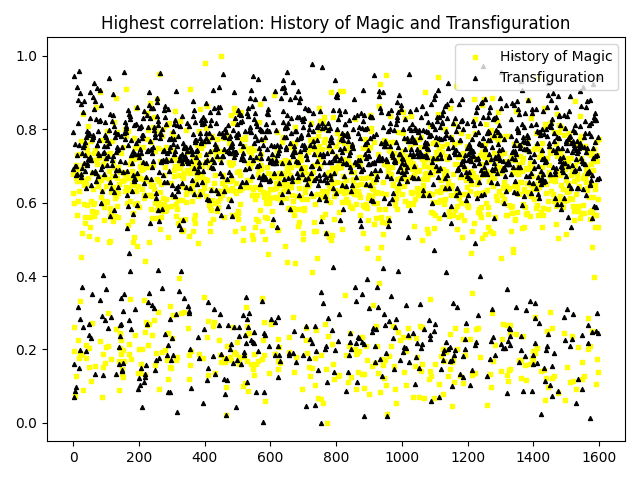
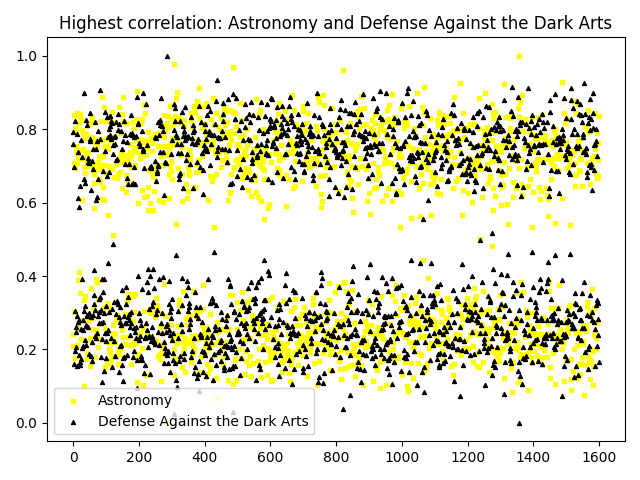
add negative correlation for scatter_plot

diff --git a/scatter_plot.py b/scatter_plot.py
@@ -65,18 +65,31 @@ def main():
 	# show scatter plot with the highest correlation
 	fig_cor, ax_cor = plt.subplots()
 	# someVariable = df["Arithmancy"].corrwith(df["Flying"])
-	max_corr = 0
+	max_pos_corr = 0
+	max_neg_corr = 1
 	for column in df:
 		someVariable = df.corrwith(df[column], axis=0)
 		for (index, value) in enumerate(someVariable):
-			if value > max_corr and column != someVariable.index[index]:
-				max_corr = value
-				max_corr_col_1 = column
-				max_corr_col_2 = someVariable.index[index]
-				print(f"Current max_corr of {max_corr} in column {column} comparing to {someVariable.index[index]}")
-	ax_cor.set_title(f"Highest correlation: {max_corr_col_1} and {max_corr_col_2}")
-	ax_cor.scatter(df.index, df[max_corr_col_1], s=8, color="yellow", marker="s", label=max_corr_col_1)
-	ax_cor.scatter(df.index, df[max_corr_col_2], s=8, color="black", marker="^", label=max_corr_col_2)
+			if value > max_pos_corr and column != someVariable.index[index]:
+				max_pos_corr = value
+				max_pos_corr_col_1 = column
+				max_pos_corr_col_2 = someVariable.index[index]
+				print(f"Current max_pos_corr of {max_pos_corr} in column {column} comparing to {someVariable.index[index]}")
+			if value < max_neg_corr and column != someVariable.index[index]:
+				max_neg_corr = value
+				max_neg_corr_col_1 = column
+				max_neg_corr_col_2 = someVariable.index[index]
+				print(f"Current max_neg_corr of {max_neg_corr} in column {column} comparing to {someVariable.index[index]}")
+			
+	if abs(max_pos_corr) > abs(max_neg_corr):
+		ax_cor.set_title(f"Highest correlation: {max_pos_corr_col_1} and {max_pos_corr_col_2}")
+		ax_cor.scatter(df.index, df[max_pos_corr_col_1], s=8, color="yellow", marker="s", label=max_pos_corr_col_1)
+		ax_cor.scatter(df.index, df[max_pos_corr_col_2], s=8, color="black", marker="^", label=max_pos_corr_col_2)
+	else:
+		ax_cor.set_title(f"Highest correlation: {max_neg_corr_col_1} and {max_neg_corr_col_2}")
+		ax_cor.scatter(df.index, df[max_neg_corr_col_1], s=8, color="yellow", marker="s", label=max_neg_corr_col_1)
+		ax_cor.scatter(df.index, df[max_neg_corr_col_2], s=8, color="black", marker="^", label=max_neg_corr_col_2)
+	
 	ax_cor.legend(loc="best")
 	plt.tight_layout()
 	plt.savefig('scatter_plot.png')
